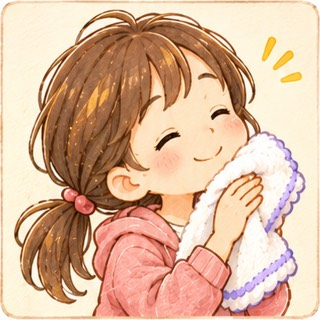
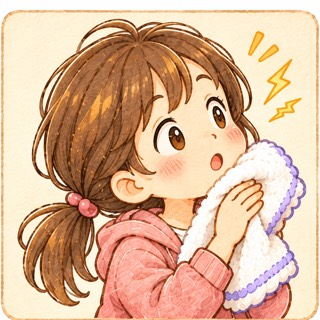
11/22-5: ステージ7の箱探しをかぎの仕組みに（指摘86）、静電気のカード絵を差し替え（指摘71）

diff --git a/versions/kento/js/game.js b/versions/kento/js/game.js
@@ -97,7 +97,8 @@ const BATTLE = {
   groundTextScale: 0.78,       // 地上のことばの文字の高さの倍率（少し平たくして、地面に貼りついて見えるように）
   fuwariEdge: 2,               // 11/22-2: 世界2・3の救出の旅で、ふわりのまわりに出す白い輪郭の太さ（px）
   darkExplore: 0.62,           // 11/22-2: 発見の旅の「照明が落ちる」の暗さ（前は0.84。箱の輪郭が読める程度）
-  openBob: { fill: "#ffd84a", edge: "#c89a10", amp: 3, speed: 7 },   // 11/22-2: 「あける」が出ている箱の色と、上下の揺れ（px・速さ）
+  openBob: { fill: "#ffd84a", edge: "#c89a10", amp: 3, speed: 7 },
+  keyBox: { fill: "#8fa2b6", edge: "#55687c", mark: "#f2c234", countY: 0.07 },   // 11/22-5（指摘86）: ステージ7のかぎマークの箱の色・かぎの色。countY ＝「かぎ ×N」の高さ（画面の高さの割合。上の一行の上）   // 11/22-2: 「あける」が出ている箱の色と、上下の揺れ（px・速さ）
   darkRescue: 0.6,             // 救出の旅の出来事「照明が落ちる」の暗さ（地面と地上のものだけ。発見の旅は0.84）
   powerStartW23: 1,            // 世界2・3のパワーの初期値の段（0 ＝ 1本、1 ＝ 2本。10/31-13 決定: 救出の旅を派手に。世界1は1本のまま）
   powerStartW3: 2,             // 世界3のパワーの初期値の段（2 ＝ 3本。パワーUPで4本。11/3-3 決定: 世界3を最初から1段強く）
@@ -2755,13 +2756,19 @@ const Battle = (() => {
   function boxSetup() {
     const mv = exMove, ex = explore;
     let list = shuffle(exploreWords().map(w => ({ word: w })).concat(Array.from({ length: mv.empty || 0 }, () => ({ word: null })), Array.from({ length: mv.fake || 0 }, () => ({ word: null, fake: true }))));   // にせOPEN（11/1-2）: 空箱で、いつも OPEN の面
-    if (mv.lock > 0) {   // 鍵つきの箱: ことばの箱から lock 個（いちばん前のものはのぞく）。鍵の箱は2番目に出す
+    if (mv.keys > 0) {   // 11/22-5 決定（指摘86。ステージ7）: かぎ入りの「？」の箱が keys 個。かぎマークの箱（ことばの箱から lock 個。いちばん前はのぞく）は、かぎ1本で1つ開く
+      list = list.concat(Array.from({ length: mv.keys }, () => ({ word: null, key: true })));
+      list = [list[0]].concat(shuffle(list.slice(1)));
+      shuffle(list.slice(1).filter(b => b.word)).slice(0, mv.lock).forEach(b => (b.lock = true));
+      const fk = list.findIndex(b => b.key), fl = list.findIndex(b => b.lock);   // 最初のかぎは、最初のかぎマークの箱より前に出す
+      if (fl >= 0 && fk > fl) { const t = list[fk]; list[fk] = list[fl]; list[fl] = t; }
+    } else if (mv.lock > 0) {   // 鍵つきの箱: ことばの箱から lock 個（いちばん前のものはのぞく）。鍵の箱は2番目に出す
       shuffle(list.slice(1).filter(b => b.word)).slice(0, mv.lock).forEach(b => (b.lock = true));
       list.splice(1, 0, { word: null, key: true });
     }
     if (lessonOn("s5box")) { const i = list.findIndex(b => b.word); if (i > 0) list.unshift(list.splice(i, 1)[0]); }   // チュートリアルのときは、最初の箱にことばを入れる（11/7-20）
     ex.queue = list.map((b, i) => Object.assign(b, { w: mv.boxW, h: mv.boxH, hold: 0, open: false, openT: 0, out: false, wait: 0, phase: (i * 0.77) % 3, shake: 0, warnT: 0 }));
-    ex.boxes = []; ex.nextBoxAt = BATTLE.exploreFirst; ex.laneNo = 0; ex.belt = 0; ex.keyFound = false;
+    ex.boxes = []; ex.nextBoxAt = BATTLE.exploreFirst; ex.laneNo = 0; ex.belt = 0; ex.keyFound = false; ex.keys = mv.keys > 0 ? 0 : null;   // ex.keys ＝ 持っているかぎの数（11/22-5。ステージ7だけ。ほかは null）
   }
   const laneY = i => H * exMove.lanes[i % exMove.lanes.length];
   // レーンごとの向き（11/7-30 決定: sides のとき、まん中のレーンは右から左へ。箱が左右の両方から出てくる）
@@ -2773,7 +2780,8 @@ const Battle = (() => {
     const mv = exMove, cyc = mv.openTime + 3 * mv.faceTime, ph = (explore.t + b.phase * cyc / 3) % cyc;
     return ph < mv.openTime ? 0 : 1 + Math.min(2, Math.floor((ph - mv.openTime) / mv.faceTime));
   }
-  const boxCanOpen = b => b.fake || (!(b.lock && !explore.keyFound) && (!exMove.open || boxFace(b) === 0));
+  const boxLocked = b => b.lock && (exMove.keys > 0 ? explore.keys <= 0 : !explore.keyFound);   // かぎがなくて開けられない（11/22-5: ステージ7は持っているかぎの数で決まる）
+  const boxCanOpen = b => b.fake || (!boxLocked(b) && (!exMove.open || boxFace(b) === 0));
   function updateBoxes(dt) {
     const ex = explore, mv = exMove, words = exploreWords();
     if (!ex.queue) boxSetup();
@@ -2814,7 +2822,7 @@ const Battle = (() => {
       if (b !== pressed || (lessonOn("s5box") && !les)) { b.hold = 0; continue; }   // チュートリアルの説明の前は、まだ開かない（11/7-20）
       if (!boxCanOpen(b)) {
         b.hold = 0;
-        if (b.lock && !ex.keyFound && b.warnT <= 0) { b.shake = 0.3; b.warnT = 1.5; floats.push({ x: b.x, y: b.y - b.h / 2 - 10, text: tx("box.locked"), big: false, age: 0 }); Sound.se("boing"); }
+        if (boxLocked(b) && b.warnT <= 0) { b.shake = 0.3; b.warnT = 1.5; floats.push({ x: b.x, y: b.y - b.h / 2 - 10, text: tx(mv.keys > 0 ? "box.noKey" : "box.locked"), big: false, age: 0 }); Sound.se("boing"); }
         continue;
       }
       b.hold += dt;
@@ -2827,6 +2835,7 @@ const Battle = (() => {
   function openBox(b) {
     const ex = explore;
     b.open = true; b.openT = 0; moved = true;
+    if (b.lock && exMove.keys > 0) ex.keys = Math.max(0, ex.keys - 1);   // 11/22-5: かぎを1本使う
     if (b.word) {
       const size = isShortWord(b.word) ? Math.round(BATTLE.fontSize.zako * BATTLE.shortScale) : BATTLE.fontSize.zako;
       ctx.font = font(size);
@@ -2834,6 +2843,7 @@ const Battle = (() => {
       findWord(b.d);
     } else if (b.key) {
       ex.keyFound = true;
+      if (exMove.keys > 0) ex.keys++;   // 11/22-5: かぎを1本拾う
       floats.push({ x: b.x, y: b.y - b.h / 2 - 10, text: tx("box.key"), big: true, found: true, age: 0 });
       Sound.se("power");
     } else {
@@ -4863,6 +4873,14 @@ const Battle = (() => {
   }
 
   // ===== 世界2の発見の旅「箱」の画面（10/31-10 試作。箱とコンベアは仮の図形） =====
+  // かぎの印（11/22-5）: (x, y) が中心、横はおよそ 44×k px。左に輪、右へ軸と歯
+  function drawKeyMark(x, y, k, color) {
+    ctx.save(); ctx.translate(x, y); ctx.scale(k, k);
+    ctx.strokeStyle = "rgba(70,50,10,0.55)"; ctx.fillStyle = color; ctx.lineWidth = 2;
+    ctx.beginPath(); ctx.arc(-12, 0, 10, 0, Math.PI * 2); ctx.arc(-12, 0, 4.5, 0, Math.PI * 2, true); ctx.fill("evenodd"); ctx.stroke();
+    ctx.beginPath(); ctx.rect(-2.5, -3.5, 26, 7); ctx.rect(13, 3.5, 4.5, 7); ctx.rect(19.5, 3.5, 4.5, 9); ctx.fill(); ctx.stroke();
+    ctx.restore();
+  }
   function drawBox(b) {
     const face = b.fake ? 0 : exMove.open ? boxFace(b) : -1;   // にせOPEN は、いつも OPEN の面
     const hot = face === 0 && !b.open;   // 11/22-2: 「あける」が出ている箱は明るい黄色にして、上下に小さく揺らす
@@ -4870,7 +4888,8 @@ const Battle = (() => {
     const squash = exMove.open && !b.open ? 1 - 0.12 * Math.abs(Math.sin(((explore.t + b.phase) % 1) * Math.PI)) * (face > 0 ? 1 : 0) : 1;
     ctx.save(); ctx.translate(x, y); ctx.scale(1, squash);
     ctx.fillStyle = "rgba(30,30,40,0.25)"; roundRect(-w / 2 + 4, -h / 2 + 8, w, h, 8); ctx.fill();   // 影
-    ctx.fillStyle = hot ? BATTLE.openBob.fill : "#c9955a"; ctx.strokeStyle = hot ? BATTLE.openBob.edge : "#8a6232"; ctx.lineWidth = 2;
+    const keyLock = b.lock && exMove.keys > 0;   // 11/22-5: かぎマークの箱（ステージ7）は青みの灰色、まん中に大きな金色のかぎ
+    ctx.fillStyle = hot ? BATTLE.openBob.fill : keyLock ? BATTLE.keyBox.fill : "#c9955a"; ctx.strokeStyle = hot ? BATTLE.openBob.edge : keyLock ? BATTLE.keyBox.edge : "#8a6232"; ctx.lineWidth = 2;
     roundRect(-w / 2, -h / 2, w, h, 8); ctx.fill(); ctx.stroke();
     if (b.open) {   // ふたが開いている
       ctx.fillStyle = "#6a4a28"; roundRect(-w / 2 + 6, -h / 2 + 4, w - 12, 14, 4); ctx.fill();
@@ -4886,8 +4905,9 @@ const Battle = (() => {
         ctx.fillStyle = "#ffffff"; ctx.font = font(16); ctx.fillText(tx("box.boxOpen"), 0, 1);   // 11/22-1: 「OPEN」→「あける」
       } else if (face > 0) {   // ほかの面（回っている）
         ctx.fillStyle = "rgba(90,60,30,0.55)"; ctx.font = font(22); ctx.fillText("↻", 0, 4);
-      } else { ctx.fillStyle = "rgba(90,60,30,0.6)"; ctx.font = font(26); ctx.fillText("？", 0, 4); }
-      if (b.lock && !ex.keyFound) {   // 鍵（南京錠）
+      } else if (keyLock) drawKeyMark(0, 2, 1, BATTLE.keyBox.mark);
+      else { ctx.fillStyle = "rgba(90,60,30,0.6)"; ctx.font = font(26); ctx.fillText("？", 0, 4); }
+      if (b.lock && !ex.keyFound && !keyLock) {   // 鍵（南京錠）
         ctx.strokeStyle = "#5a5f6a"; ctx.lineWidth = 3; ctx.beginPath(); ctx.arc(w / 2 - 14, h / 2 - 22, 6, Math.PI, 0); ctx.stroke();
         ctx.fillStyle = "#8a909c"; roundRect(w / 2 - 22, h / 2 - 22, 16, 13, 3); ctx.fill();
       }
@@ -4932,7 +4952,8 @@ const Battle = (() => {
       // 11/22-2: 暗いあいだも箱の形と鍵の印が読めるように、うすく輪郭を重ねる（前は暗さ0.84で箱が見えなかった）
       if (ex.boxes) for (const b of ex.boxes) if (!b.out && !b.open) {
         ctx.save(); ctx.translate(b.x, b.y); ctx.strokeStyle = "rgba(255,236,190,0.55)"; ctx.lineWidth = 2; roundRect(-b.w / 2, -b.h / 2, b.w, b.h, 8); ctx.stroke();
-        if (b.lock && !ex.keyFound) { ctx.strokeStyle = "rgba(220,226,236,0.85)"; ctx.lineWidth = 3; ctx.beginPath(); ctx.arc(b.w / 2 - 14, b.h / 2 - 22, 6, Math.PI, 0); ctx.stroke(); ctx.fillStyle = "rgba(200,206,218,0.85)"; roundRect(b.w / 2 - 22, b.h / 2 - 22, 16, 13, 3); ctx.fill(); }
+        if (b.lock && exMove.keys > 0) { ctx.globalAlpha = 0.7; drawKeyMark(0, 2, 1, BATTLE.keyBox.mark); ctx.globalAlpha = 1; }   // 11/22-5: かぎマークもうすく見える
+        else if (b.lock && !ex.keyFound) { ctx.strokeStyle = "rgba(220,226,236,0.85)"; ctx.lineWidth = 3; ctx.beginPath(); ctx.arc(b.w / 2 - 14, b.h / 2 - 22, 6, Math.PI, 0); ctx.stroke(); ctx.fillStyle = "rgba(200,206,218,0.85)"; roundRect(b.w / 2 - 22, b.h / 2 - 22, 16, 13, 3); ctx.fill(); }
         ctx.restore();
       }
     }
@@ -4963,11 +4984,21 @@ const Battle = (() => {
       ctx.font = font(16); ctx.lineWidth = 5; ctx.strokeStyle = "#ffffff";
       ctx.textAlign = "center"; ctx.textBaseline = "middle";
       const hy = H * 0.14;
-      const ht = tx(exMove.space ? "space.moveHint" : exMove.open ? "box.openHint" : exMove.lock ? "box.lockHint" : "box.moveHint");   // ステージごとの1行（6 OPEN／7 鍵。10/31-10 試作）
+      const ht = tx(exMove.space ? "space.moveHint" : exMove.keys > 0 ? "box.keyHint" : exMove.open ? "box.openHint" : exMove.lock ? "box.lockHint" : "box.moveHint");   // ステージごとの1行（6 OPEN／7 鍵。10/31-10 試作）
       const hx = (stripRight() + W) / 2, hw = W - stripRight() - 12;   // 11/22-1: 左の札にかからないよう、札の右の空きのまん中に。入らなければ字を小さく
-      for (let fs = 16; fs > 12 && ctx.measureText(ht).width > hw; ) { fs -= 1; ctx.font = font(fs); }
-      if (!hintCard) { ctx.strokeText(ht, hx, hy); ctx.fillStyle = "#3f4f6a"; ctx.fillText(ht, hx, hy); }
+      const hl = ht.split("\n");   // 11/22-5: \n で行を分ける（ステージ7の案内は2行）
+      for (let fs = 16; fs > 12 && Math.max(...hl.map(l => ctx.measureText(l).width)) > hw; ) { fs -= 1; ctx.font = font(fs); }
+      if (!hintCard) hl.forEach((l, i) => { const ly = hy + (i - (hl.length - 1) / 2) * 20; ctx.strokeText(l, hx, ly); ctx.fillStyle = "#3f4f6a"; ctx.fillText(l, hx, ly); });
       ctx.globalAlpha = 1;
+    }
+    if (explore.keys != null && state === "play") {   // 11/22-5 決定（指摘86）: 持っているかぎの数「かぎ ×N」を上の案内の帯にずっと出す（上の一行の上・時計の左。時間オーバー・出来事の帯や、箱の上に出る字と重ならないように）
+      const kx = (stripRight() + W) / 2, ky = H * BATTLE.keyBox.countY, kt = tx("box.keyCount", { n: explore.keys });
+      ctx.save(); ctx.font = font(17); ctx.textAlign = "left"; ctx.textBaseline = "middle";
+      const tw = ctx.measureText(kt).width, bw = tw + 46, bx = kx - bw / 2;
+      ctx.fillStyle = "rgba(255,252,240,0.92)"; ctx.strokeStyle = BATTLE.keyBox.edge; ctx.lineWidth = 2; roundRect(bx, ky - 15, bw, 30, 15); ctx.fill(); ctx.stroke();
+      drawKeyMark(bx + 19, ky, 0.5, BATTLE.keyBox.mark);
+      ctx.fillStyle = "#3f4f6a"; ctx.fillText(kt, bx + 36, ky + 1);
+      ctx.restore();
     }
     if (banner) drawBanner();
     if (hintCard) drawHintCard();

diff --git a/versions/kento/data/stages.js b/versions/kento/data/stages.js
@@ -50,7 +50,7 @@ window.WORLDS = [
 ];
 
 // 世界2・3の試作（10/31-10。docs/世界2・3の構想メモ.md）
-//   explore: { move: "box" } ＝ 世界2の発見の旅「箱」（js/game.js の EXPLORE_MOVES.box。open: true ＝ OPEN の面のときだけ開く、lock: 数 ＝ 鍵つきの箱）
+//   explore: { move: "box" } ＝ 世界2の発見の旅「箱」（js/game.js の EXPLORE_MOVES.box。open: true ＝ OPEN の面のときだけ開く、lock: 数 ＝ 鍵つきの箱。keys: 数 ＝ 11/22-5 の「かぎを拾って1本ずつ使う」しくみ（ステージ7だけ。かぎ入りの「？」の箱の数。lock と同じ数にする））
 //   nextAsk: 中ボスを「次は？」にする（10/31-12 決定）。{ 中ボスのことば: "1つ前の工程" } か { 中ボスのことば: { prev: "1つ前の工程", after: "1つあとの工程" } }
 //            「次は？」は2択（10/31-13 決定）: 正解と after（工程の順で1つあと）。after を書かないときは、同じステージの文字数が近いことば1つ（1つ前の工程は入れない）。書いていない中ボスは世界1と同じ「どれ？」
 //   rescueLen・bugMul（gaugeRate ＝ ゲージの倍率は 11/6-6 決定でやめた。11/1-3 決定「必殺ワザを駆使する回」）: 救出の旅の長さ（ことばの出る間隔）・虫の数・ゲージのたまる速さの倍率。各世界の3つ目（3・7・11）は 1.25・1.25・1.5、4つ目（4・8・12）は 1.5・1.5・2（11/3-2 決定でゲージは2.5）（12 は「最後の山」で虫2倍。11/1-4。11/2-3 決定で2.5倍）
@@ -91,7 +91,7 @@ window.STAGES = [
   { id: 4,  world: 1, name: "特別な繊維の森",       topic: "綿以外の繊維と特別な糸",     recipe: "綿じゃなイト",          open: true, difficulty: 4, patterns: "auto", explore: { move: "firefly" }, override: { battle: { exploreGap: 3.2 } }, obstacles: { kind: "tree", sortie: 2, shade: 1, items: [ { at: 4, x: 0.3, r: 50 }, { at: 10, x: 0.72, r: 50 }, { at: 24, x: 0.7, r: 50 }, { at: 32, gate: 0.6, gap: 0.36 } ] }, odaiGap: 2, event: [{ kind: "wind", sortie: 2, at: 6, dur: 6 }, { kind: "fog", sortie: 2, at: 15, dur: 6 }, { kind: "rear", sortie: 2, at: 25, dur: 3 }, { kind: "pinch", sortie: 2, at: 32, dur: 3 }, { kind: "wind", sortie: 2, at: 44, dur: 6 }, { kind: "fog", sortie: 2, at: 53, dur: 6 }, { kind: "rear", sortie: 2, at: 63, dur: 3 }, { kind: "pinch", sortie: 2, at: 72, dur: 3 }], rescueLen: 1.5, bugMul: 1.5, theme: { time: "夜", bugs: { kinds: ["bat", "firefly"], density: 1.3 }, image: "assets/bg_world1.jpg", imageLight: "rgba(20,30,75,0.45)", ground: "#58705c", field: "#73695a", furrow: "#64594b", plant: "#4f6a45", cotton: "#d8dde8", creek: "#3f5f7f", creekLight: "rgba(200,220,255,0.5)", path: "#7f7867", bush: "#4c6550", light: "rgba(25,35,80,0.28)", cloudShadow: "rgba(0,0,20,0.15)", fluff: "rgba(220,230,255,0.55)", tree: ["#22381f", "#2c4728", "#365532", "#466a3e"], treeShadow: "rgba(5,10,20,0.55)", treeShadowScale: 1.3, fillerFilter: "brightness(0.8)" }, weather: { kind: "fog", sortie: 2 } },
   { id: 5,  world: 2, name: "タオルの道しるべ",      topic: "工程の全体像",               recipe: "工場の地図",          open: true, difficulty: 5, patterns: "auto", explore: { move: "box" }, nextAsk: { 布: { prev: "紡ぐ", after: "切る" }, 縫う: { prev: "切る", after: "検査" } }, bossOrder: ["縫う", "検査", "出荷"], orderHp: 1.25, bossGap: 2.2, override: { battle: { groundHold: true } }, obstacles: { kind: "pillar", sortie: 2, shade: 0, items: [ { at: 10, x: 0.4, r: 44, guide: "dodge" } ] }, odaiShot: W2_SHOT, odaiGap: 0.783, theme: W2_THEME, weather: null },
   { id: 6,  world: 2, name: "糸が生まれる道",       topic: "糸ができるまで",             recipe: "糸の誕生",          open: true, difficulty: 6, patterns: "auto", explore: { move: "box", open: true, gap: 0.7 }, event: [{ kind: "reverse", sortie: 1, at: 14, dur: 8 }, { kind: "screw", sortie: 2, at: 12, dur: 4 }, { kind: "reverse", sortie: 2, at: 25, dur: 6 }], groundPlay: ["hide", "hide"], groundIntro: "hide", orderHp: 1.2, bossGap: 2, override: {}, obstacles: { kind: "pillar", sortie: 2, shade: 0, items: [ { at: 8, x: 0.3, r: 44 }, { at: 20, x: 0.7, r: 44 } ] }, odaiShot: W2_SHOT, odaiGap: 0.96, theme: W2_THEME, weather: null },
-  { id: 7,  world: 2, name: "パイル織りの広間",      topic: "タオルを織る",               recipe: "パイルの魔法",          open: true, difficulty: 7, patterns: "auto", explore: { move: "box", lock: 3, fake: 1 }, event: [{ kind: "dark", sortie: 1, at: 12, dur: 6 }, { kind: "dark", sortie: 2, at: 6, dur: 6 }, { kind: "fast", sortie: 2, at: 16, dur: 5 }, { kind: "rear", sortie: 2, at: 27, dur: 3 }, { kind: "pinch", sortie: 2, at: 38, dur: 3 }], groundPlay: ["move", "move"], groundIntro: "move", override: {}, obstacles: { kind: "pillar", sortie: 2, shade: 1, items: [ { at: 6, x: 0.7, r: 44 }, { at: 22, x: 0.3, r: 44 } ] }, odaiShot: W2_SHOT, odaiGap: 1.75, rescueLen: 1.25, bugMul: 1.25, theme: W2_THEME, weather: null },
+  { id: 7,  world: 2, name: "パイル織りの広間",      topic: "タオルを織る",               recipe: "パイルの魔法",          open: true, difficulty: 7, patterns: "auto", explore: { move: "box", lock: 3, keys: 3, empty: 3 }, event: [{ kind: "dark", sortie: 1, at: 12, dur: 6 }, { kind: "dark", sortie: 2, at: 6, dur: 6 }, { kind: "fast", sortie: 2, at: 16, dur: 5 }, { kind: "rear", sortie: 2, at: 27, dur: 3 }, { kind: "pinch", sortie: 2, at: 38, dur: 3 }], groundPlay: ["move", "move"], groundIntro: "move", override: {}, obstacles: { kind: "pillar", sortie: 2, shade: 1, items: [ { at: 6, x: 0.7, r: 44 }, { at: 22, x: 0.3, r: 44 } ] }, odaiShot: W2_SHOT, odaiGap: 1.75, rescueLen: 1.25, bugMul: 1.25, theme: W2_THEME, weather: null },
   { id: 8,  world: 2, name: "仕上げチェックの門",     topic: "仕上げと検査",               recipe: "合格のしるし",          open: true, difficulty: 8, patterns: "auto", explore: { move: "box", open: true, lock: 2, gap: 0.98, fake: 2 }, nextAsk: { 漂白: { prev: "洗う", after: "乾燥機" }, ミシン: { prev: "乾燥機", after: "検針機" } }, bossOrder: ["乾燥機", "ミシン", "検針機"], event: [{ kind: "reverse", sortie: 1, at: 10, dur: 6 }, { kind: "dark", sortie: 1, at: 24, dur: 5 }, { kind: "reverse", sortie: 2, at: 1, dur: 4 }, { kind: "dark", sortie: 2, at: 9, dur: 5 }, { kind: "screw", sortie: 2, at: 15, dur: 4 }, { kind: "rear", sortie: 2, at: 21, dur: 3 }, { kind: "pinch", sortie: 2, at: 26, dur: 3 }, { kind: "reverse", sortie: 2, at: 30, dur: 4 }, { kind: "dark", sortie: 2, at: 38, dur: 5 }, { kind: "screw", sortie: 2, at: 44, dur: 4 }, { kind: "rear", sortie: 2, at: 51, dur: 3 }, { kind: "pinch", sortie: 2, at: 57, dur: 3 }], groundPlay: ["hide", "move"], override: { battle: { edgeFallTime: 17, crossTime: 7.8 } }, obstacles: { kind: "pillar", sortie: 2, shade: 1, items: [ { at: 6, x: 0.7, r: 44 }, { at: 22, x: 0.3, r: 44 } ] }, odaiGap: 0.87, odaiShot: W2_SHOT, rescueLen: 1.5, bugMul: 1.5, power4: true, bossGap: 1.3, orderHp: 1.1, theme: W2_THEME, weather: null },
   { id: 9,  world: 3, name: "タオルのかたち広場",     topic: "タオルの種類とサイズ",       recipe: "サイズいろいろ",          open: true, difficulty: 9, patterns: "auto", explore: { move: "space", on: 4, gap: 0.5 }, which: true, groundPlay: ["both", "both"], override: { battle: { crossTime: 7.8 } }, obstacles: null, odaiGap: 0.42, odaiShot: W3_SHOT, bugMul: 3, power4: true, theme: W3_THEME, weather: null },
   { id: 10, world: 3, name: "生地のひみつ通り",      topic: "織りと生地の工夫",           recipe: "手ざわり大好き",          open: true, difficulty: 10, patterns: "auto", explore: { move: "space", on: 4, gap: 0.8 }, event: { kind: "gravity", sortie: 2, at: 20, dur: 8 }, which: true, groundPlay: ["both", "both"], override: {}, obstacles: null, odaiGap: 0.33, odaiShot: W3_SHOT, bugMul: 3, power4: true, theme: W3_THEME, weather: null },

diff --git a/versions/kento/js/cards.js b/versions/kento/js/cards.js
@@ -15,7 +15,7 @@ const Cards = (() => {
   const GLUE = new Set(["を", "は", "が", "に", "の", "と", "で", "へ", "も", "や", "よ", "ね", "て", "た", "か", "な", "、", "。", "!", "！", "?", "？", ")", "）", "」", "―", "—", "…"]);   // 11/7-30: 「――」「……」も前の語につける（行の頭に来ないように）   // 「」の閉じかっこも前につける（10/25-14）
   const esc = t => t.replace(/[&<>"]/g, c => ({ "&": "&amp;", "<": "&lt;", ">": "&gt;", '"': "&quot;" }[c]));
   // カードの絵（11/6-6）: 絵があるステージ（stages）だけ、持っているカードの上に出す。絵は tools/cardsplit.mjs で切り分けた assets/cards/s<ステージ>_<順>.jpg（1辺 320px。表示の2倍。11/7-7 で PNG から JPEG 画質70に）
-  const CARD_ART = { dir: "assets/cards/", stages: [1, 2, 3, 4, 5, 6, 7, 8, 9, 10, 11, 12], v: "1122-3", framed: [5, 6, 7, 8, 9, 10, 11, 12] };   // 11/22-3: ステージ5〜12は制作側（千葉さん）の絵。角丸の茶色いふちが絵の中にあるので、表示の角丸・ふちを重ねない（framed）   // v ＝ 絵を差し替えたら変える（前の絵がブラウザに残らないように）。11/7-5 で120枚そろった。絵が読めなかったときは onerror で「絵がないカード」の表示にもどる（保険として残す）
+  const CARD_ART = { dir: "assets/cards/", stages: [1, 2, 3, 4, 5, 6, 7, 8, 9, 10, 11, 12], v: "1122-5", framed: [5, 6, 7, 8, 9, 10, 11, 12] };   // 11/22-3: ステージ5〜12は制作側（千葉さん）の絵。角丸の茶色いふちが絵の中にあるので、表示の角丸・ふちを重ねない（framed）   // v ＝ 絵を差し替えたら変える（前の絵がブラウザに残らないように）。11/7-5 で120枚そろった。絵が読めなかったときは onerror で「絵がないカード」の表示にもどる（保険として残す）
   function framed(w) { return CARD_ART.framed.includes(w.stage); }
   function artSrc(w) {
     if (!CARD_ART.stages.includes(w.stage) || !w.order) return null;

diff --git a/versions/kento/index.html b/versions/kento/index.html
@@ -12,7 +12,7 @@
   <link rel="preconnect" href="https://fonts.googleapis.com">
   <link rel="preconnect" href="https://fonts.gstatic.com" crossorigin>
   <link rel="stylesheet" href="https://fonts.googleapis.com/css2?family=Zen+Maru+Gothic:wght@500;700&display=swap">
-  <link rel="stylesheet" href="css/style.css?v=129">
+  <link rel="stylesheet" href="css/style.css?v=130">
 </head>
 <body>
   <div id="app">
@@ -288,17 +288,17 @@
   <!-- 横向きのとき -->
   <div id="rotate"><div><div class="rotate-icon"></div><p>縦にしてね</p></div></div>
 
-  <script src="data/words.js?v=129"></script>
-  <script src="data/stages.js?v=129"></script>
-  <script src="data/texts.js?v=129"></script>
-  <script src="data/ruby.js?v=129"></script>
-  <script src="js/ruby.js?v=129"></script>
-  <script src="js/audio.js?v=129"></script>
-  <script src="js/door.js?v=129"></script>
-  <script src="js/game.js?v=129"></script>
-  <script src="js/quiz.js?v=129"></script>
-  <script src="js/cards.js?v=129"></script>
-  <script src="js/recipebook.js?v=129"></script>
-  <script src="js/main.js?v=129"></script>
+  <script src="data/words.js?v=130"></script>
+  <script src="data/stages.js?v=130"></script>
+  <script src="data/texts.js?v=130"></script>
+  <script src="data/ruby.js?v=130"></script>
+  <script src="js/ruby.js?v=130"></script>
+  <script src="js/audio.js?v=130"></script>
+  <script src="js/door.js?v=130"></script>
+  <script src="js/game.js?v=130"></script>
+  <script src="js/quiz.js?v=130"></script>
+  <script src="js/cards.js?v=130"></script>
+  <script src="js/recipebook.js?v=130"></script>
+  <script src="js/main.js?v=130"></script>
 </body>
 </html>

diff --git a/versions/kento/data/texts.js b/versions/kento/data/texts.js
@@ -114,6 +114,9 @@ window.TEXTS = {
     locked: "かぎがかかってる",
     key: "かぎを見つけた！",
     keyOpen: "かぎの箱が開いた！",
+    keyHint: "？の箱からかぎを見つけて、\nかぎマークの箱をあけよう",   // 11/22-5 決定（指摘86）: ステージ7の上の案内（1行に入らないので \n で2行）
+    noKey: "かぎがない",   // 11/22-5: かぎを持たずに、かぎマークの箱を押さえたとき
+    keyCount: "かぎ ×{n}",   // 11/22-5: 持っているかぎの数（上の案内の帯に、ずっと出す）
   },
   events: {
     reverse: "コンベアが逆に動きだした！",

diff --git a/docs/変更の記録.md b/docs/変更の記録.md
@@ -752,3 +752,14 @@
 - 指摘72・61: 帯と本のマスは、宝石の絵を黒くうすく（不透明度32%）1.14倍にした盾の形のくぼみ（縁の線なし）。絵に描かれた古い六角形は、枠の上と下の地の色（絵から測った値）のぼかした布でおおって隠した。宝石はくぼみのまん中にはまる（演出の最後で中心のずれ0px を確かめた）。（11/22-4追加）
 - 指摘72・61: 宝石の大きさは、本と行は前の図形と同じ高さ。上の帯だけは前の図形（マスの61%）だと古い枠を隠す布が大きく見えるので、マスの80%（本と同じく古い枠とほぼ同じ大きさ）にした。宝石のまわりの光の輪は少し小さく・うすくした。（11/22-4追加）
 - ?v=128 → 129。タイトルの表記は「11/22 検討版」のまま。（11/22-4追加）
+- 決定: 制作側の指摘表への対応の最後「遊びの調整」。仕組みを変える項目を含む。（11/22-5追加）
+- 決定: 世界2-7の箱探しは、次の仕組みにする（指摘86）。「？」の箱の中に、かぎが入っている箱がいくつかある。開けるとかぎを1本拾う。かぎマークつきの箱も最初から出ている。かぎを持っていれば、押さえると1本使って開く。持っていなければ開かず、小さく「かぎがない」と出る。かぎマークは箱の中央に大きく。かぎつき箱は色も変える（他の箱と見分けがつく色）。持っているかぎの数を、上の案内の帯に「かぎ ×N」で出す。「あける」の箱はこのステージでは出さない。かぎの数は、ステージ内のかぎつき箱の数と同じ（3〜5本の範囲で、今の箱の数に合わせる）。説明文は「？の箱からかぎを見つけて、かぎマークの箱をあけよう」にする。（11/22-5追加）
+- 決定: ステージ1の「静電気」のカード絵を、資料/絵/s01_06_静電気.png に差し替える（指摘71）。（11/22-5追加）
+- 決定: 2回に分ける。今回は作業1〜3（かぎの仕組み）と作業10（静電気の絵）だけ。作業4〜9（ステージ12の2択、クイズ中の弾、とくぎ選び、葉っぱ、回ることば、木の説明の時間）は次回。（11/22-5追加）
+- 回答: Q1 かぎつき箱3つ・かぎ3本。Q2 A（空箱をかぎ入り3つ＋空箱1つにし、かぎ入りの「？」箱を2つ足して16個のまま）。Q3 上の案内の帯に「かぎ ×N」をずっと出す。最初の一行が消えたあとも残す。Q4 A（一行を「？の箱からかぎを見つけて、かぎマークの箱をあけよう」に変える）。止める説明画面は作らない。かぎつき箱の色（青みの灰色＋中央に金色のかぎマーク、暗いときもうすく見える）はその案でよい。静電気の絵の切り出しもそのままでよい。（11/22-5追加）
+- 指摘86: ステージ7の箱は16個（ことば10、かぎ入りの「？」3、空箱3）。にせの「あける」の箱と、前のかぎの箱（1本で全部開く）はやめた。かぎマークの箱はことばの箱から3つ（いちばん前はのぞく）。最初のかぎは、最初のかぎマークの箱より前に流れてくる。stages.js の explore に keys: 3（新しい仕組み）。ステージ8は前の仕組みのまま。（11/22-5追加）
+- 指摘86: かぎマークの箱は青みの灰色（#8fa2b6、ふち #55687c）で、まん中に大きな金色のかぎ。照明が消えたときもかぎマークをうすく重ねる。かぎがないときに押さえると、箱がゆれて「かぎがない」。開けるとかぎが1本減る。（11/22-5追加）
+- 指摘86: 「かぎ ×N」は、上の案内の一行の上（時計の左）に、ずっと出す。前は一行の下に置いたが、時間オーバーの帯や箱の上に出る字（「かぎを見つけた！」「かぎがない」）と重なったので上へ移した。上の一行は2行（「？の箱からかぎを見つけて、／かぎマークの箱をあけよう」）。（11/22-5追加）
+- 指摘86: 自動プレイヤー（tools/autoplay.js）も、持っているかぎの数でかぎマークの箱を開けに行くように直した。ステージ7（ふつう）1回でエラーなく最後まで通った（10語、127秒）。（11/22-5追加）
+- 指摘71: 静電気のカード（assets/cards/s01_06.jpg）を、資料/絵/s01_06_静電気.png から作った絵（320×320・JPEG 画質70）に差し替えた。元の PNG のいちばん上に別のカードの枠のはしが写っていたので、まん中を正方形に切り出した。前の絵は versions/kento/docs/カード絵/旧_s01_06.jpg。cards.js の CARD_ART.v を 1122-5 に。（11/22-5追加）
+- ?v=129 → 130。タイトルの表記は「11/22 検討版」のまま。（11/22-5追加）
